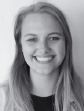
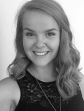
Fix home and add Rikke

diff --git a/themes/hugo-kimbrer/layouts/partials/index_content.html b/themes/hugo-kimbrer/layouts/partials/index_content.html
@@ -9,8 +9,8 @@
 </div>
 <div class="col s12 m6 l6">
 <ul class="fa-ul">
-    <li><i class="fa-li fa fa-check-square"></i>Spændende kræmmermarked</li>
-    <li><i class="fa-li fa fa-check-square"></i>Festligt tivoli</li>
+    <li><i class="fa-li fa fa-check-square"></i>Legeland hele dagen</li>
+    <li><i class="fa-li fa fa-check-square"></i>Den årlige revy</li>
     <li><i class="fa-li fa fa-check-square"></i>Billig bus fra og til hele byen.</li>
 </ul>
 </div>

diff --git a/content/contact/ungegruppen2.md b/content/contact/ungegruppen2.md
@@ -1,11 +1,11 @@
 +++
 weight = "8"
-work = ""
-name = ""
-image = ""
+work = "Aalborg Universitet"
+name = "Rikke Falk Nielsen"
+image = "unge2.png"
 date = "2017-02-26T20:26:38+01:00"
 title = "Ungegruppen"
-worktitle = ""
+worktitle = "Studerende"
 phone = ""
 email = "unge@kimbrerfesten.dk"
 +++
